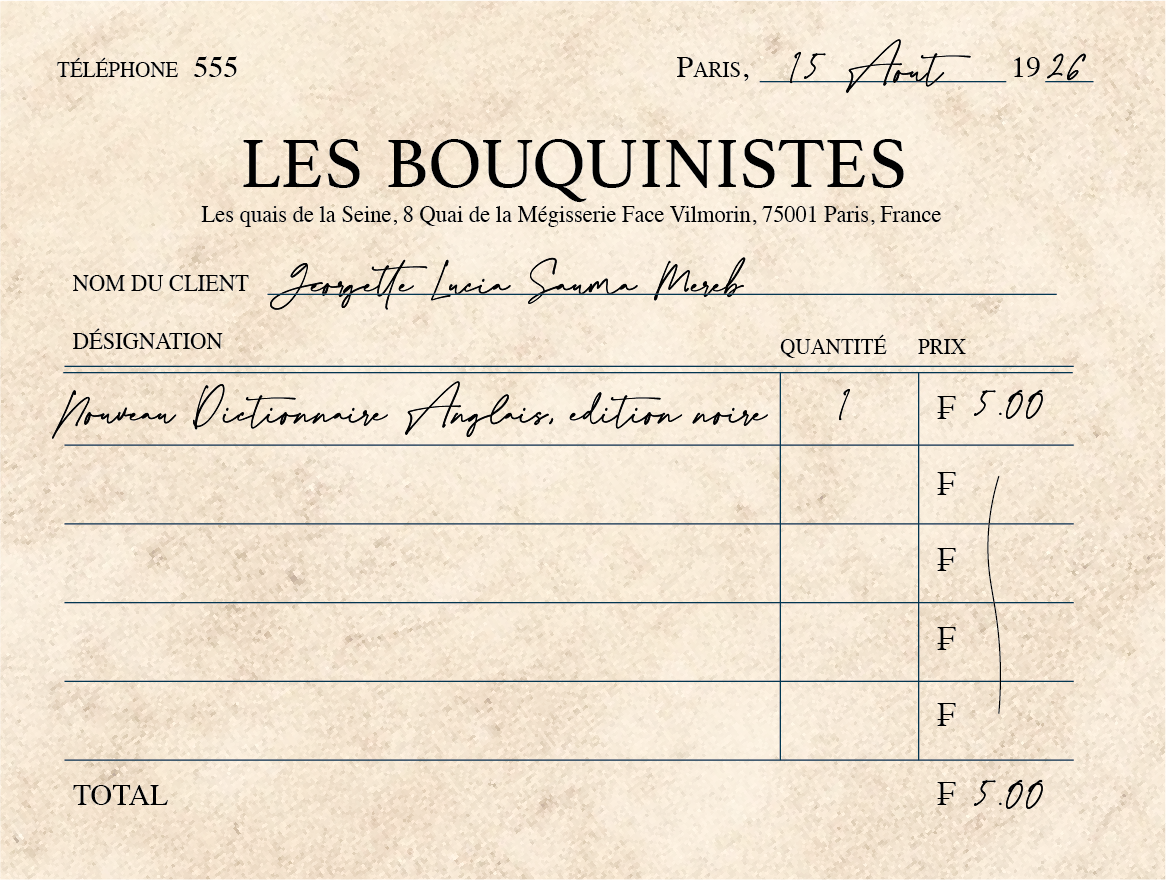
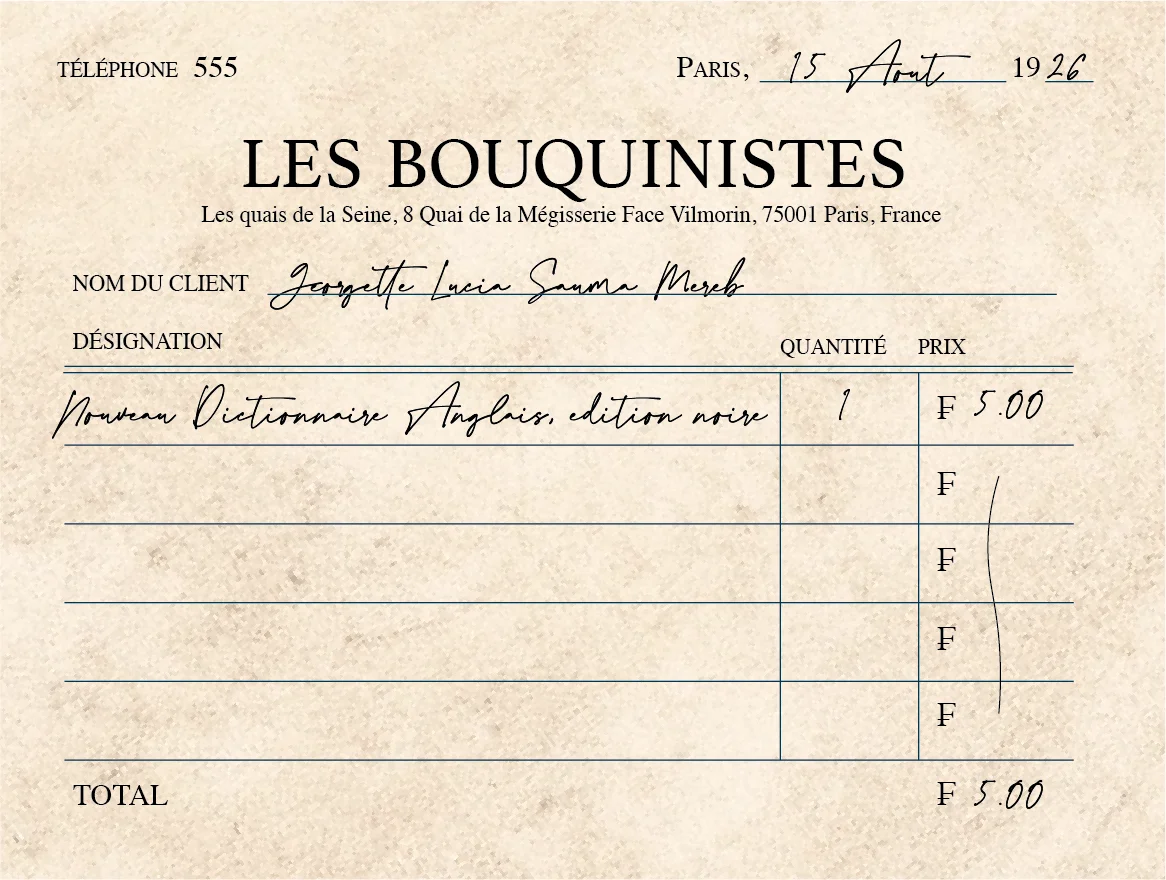
fix ts error in Clue.tsx

diff --git a/src/components/Clue.tsx b/src/components/Clue.tsx
@@ -4,10 +4,12 @@ import PistaRed from '../assets/pistaRed.webp'
 import type { TypeTeam } from "../types";
 
 export const Clue = ({team}: {team: TypeTeam}) => {
-  let clueImg: string;
-  if (team === 'blue') clueImg = PistaBlue;
-  if (team === 'red') clueImg = PistaRed;
-  if (team === 'yellow') clueImg = PistaYellow;
 
-  return <img src={clueImg} loading="lazy"  className="clueImg" alt={`pista ${team}`} />;
+  const clueImgs: Record<TypeTeam, string> = {
+  blue: PistaBlue,
+  red: PistaRed,
+  yellow: PistaYellow,
+  }
+
+  return <img src={clueImgs[team]}  className="clueImg" alt={`pista ${team}`} />;
 }
